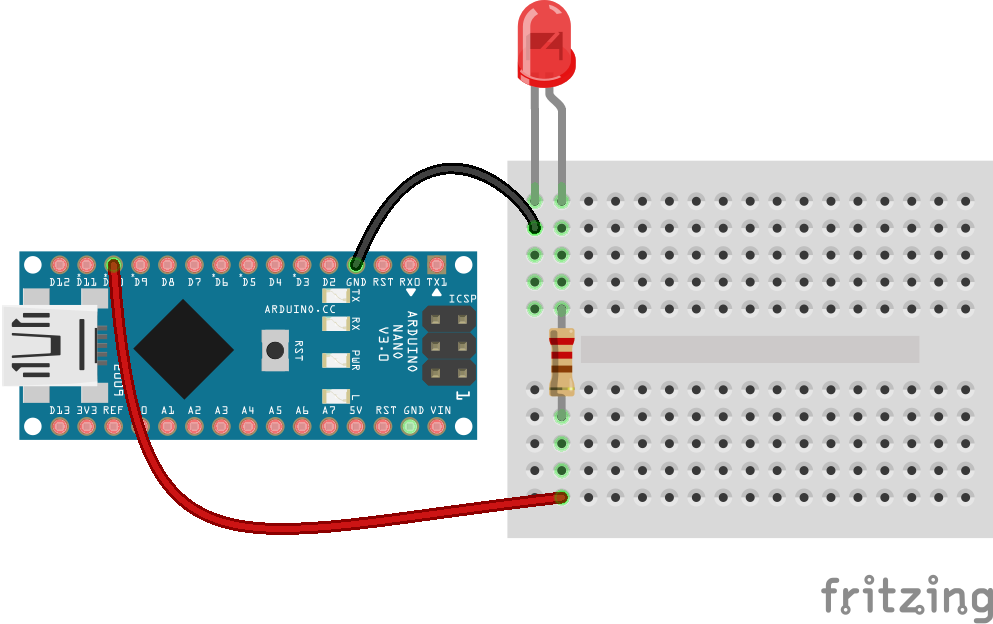
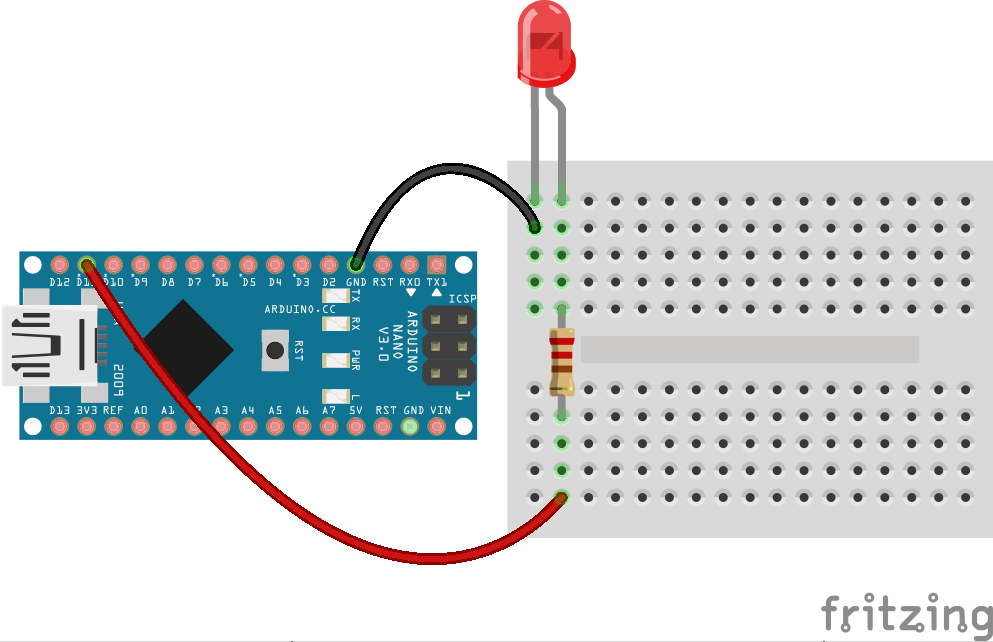
updated LED exercises to correct pinout

diff --git a/code/led.js b/code/led.js
@@ -7,7 +7,7 @@ var board = new five.Board({port: port});
 board.on("ready", function() {
 
   // Create a standard `led` component instance
-  var led = new five.Led(10);
+  var led = new five.Led(11);
 
   // "blink" the led in 500ms
   // on-off phase periods

diff --git a/exercises/led.md b/exercises/led.md
@@ -27,7 +27,7 @@ side and it is connected to ground.
 
 ![LED Circuit](./led_bb.png)
 
-Make sure the LED is connected to pin 10.
+Make sure the LED is connected to pin 11.
 
 Once you've built the circuit, it's time to program it.
 
@@ -67,7 +67,7 @@ var board = new five.Board();
 board.on("ready", function() {
 
   // Create a standard `led` component instance
-  var led = new five.Led(10);
+  var led = new five.Led(11);
 
   led.blink(500);
 });
@@ -85,4 +85,6 @@ node code/led.js
 Other things you can do:
 
 * Try out other parts of the `Led` API such as blinking and stopping
+* Pin 11 is a "PWM" pin which means you can use it to simulate analog voltage
+levels. Try out the fade part of the API.
 * Move onto [Exercise 2 - Moving a Servo](./servo.md)
